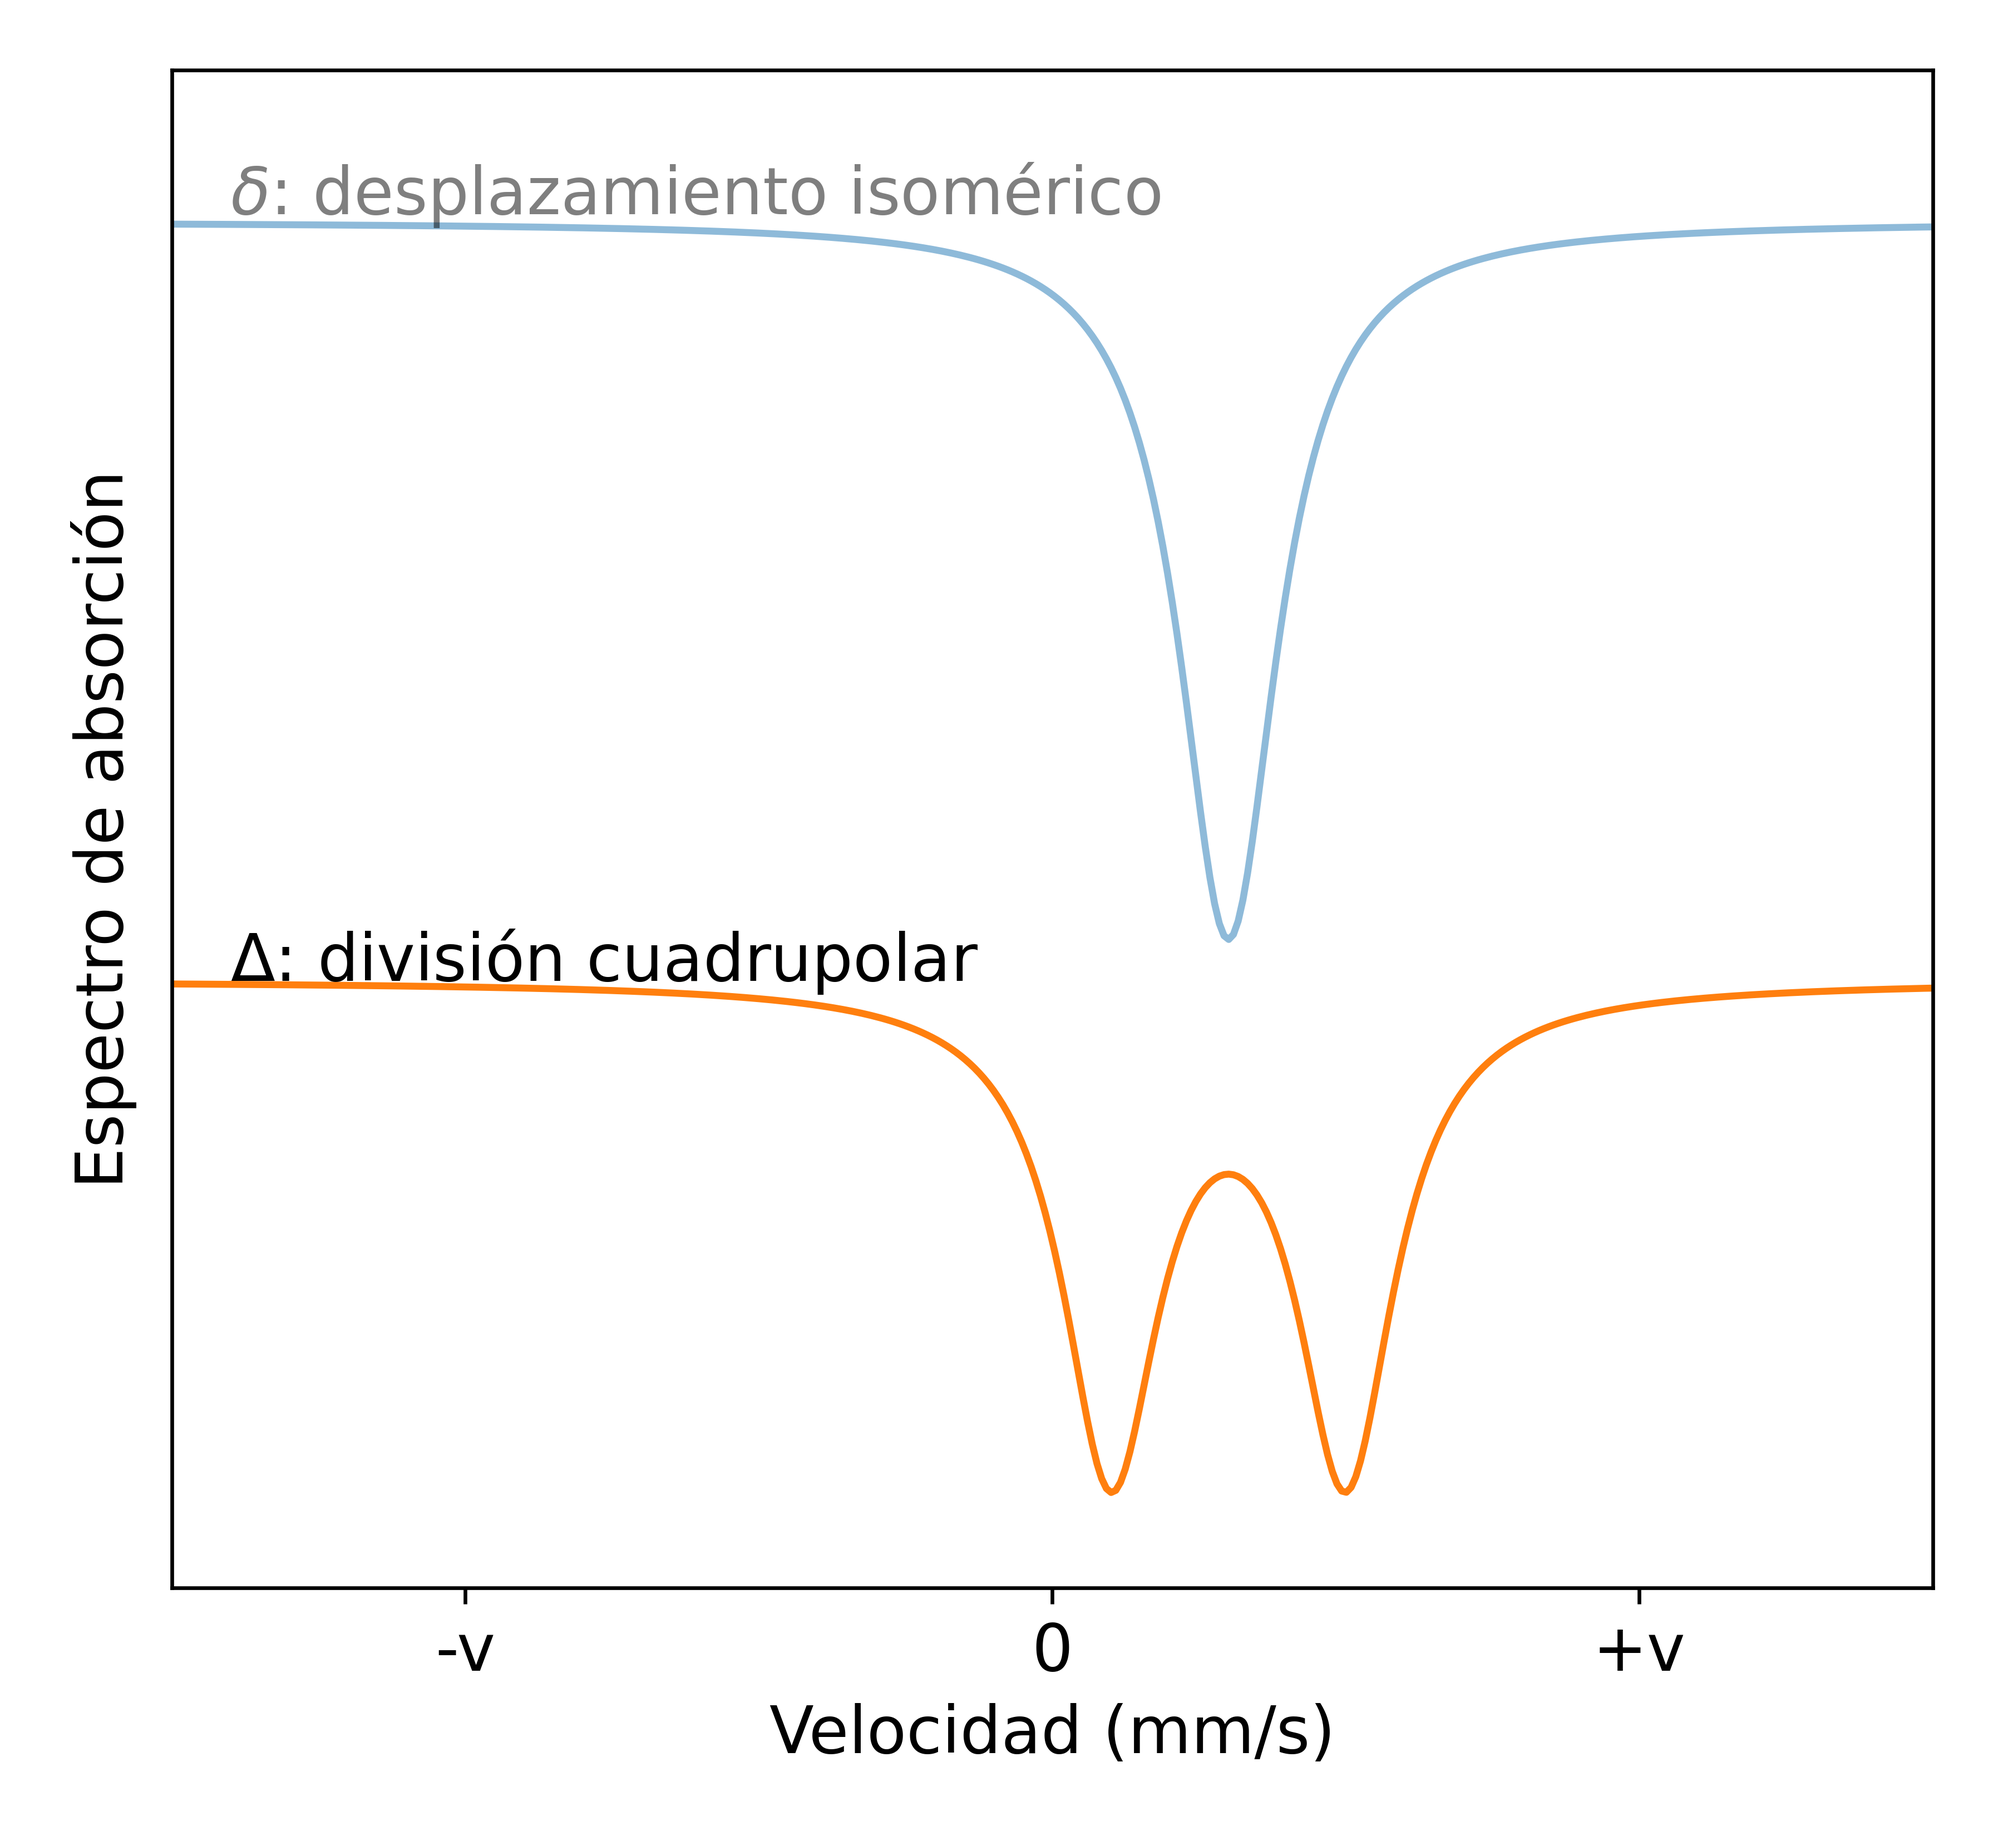
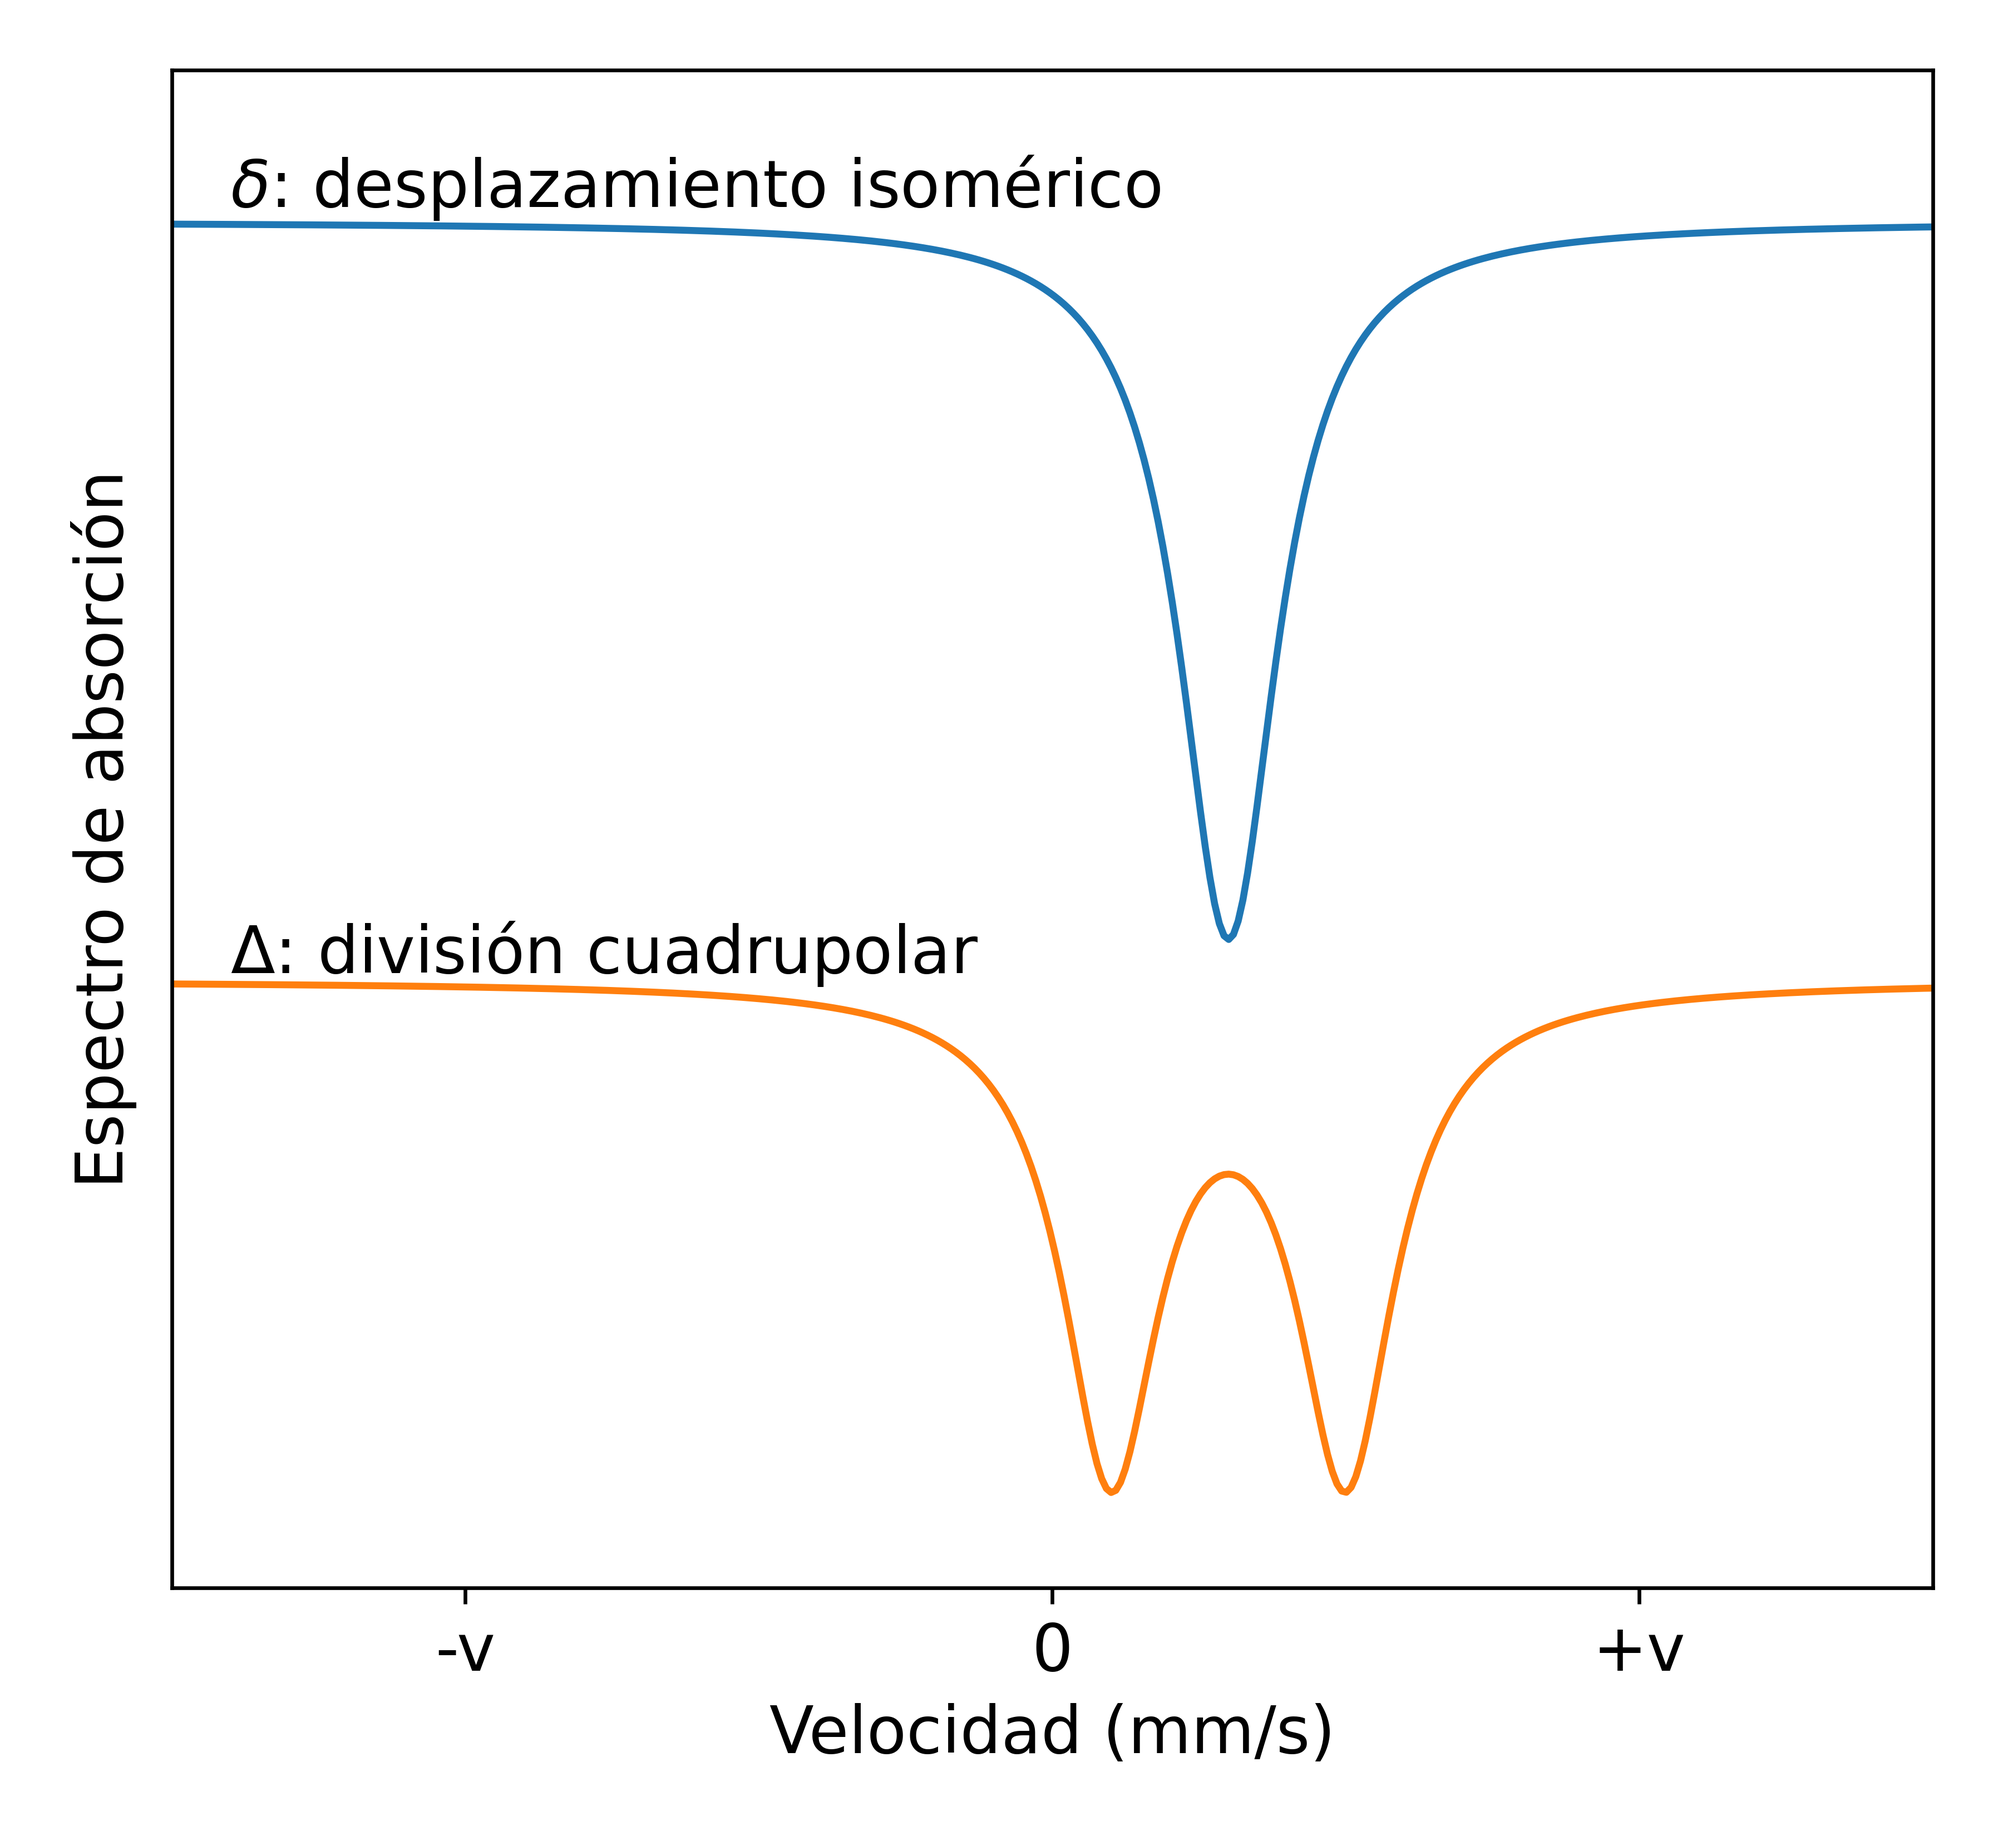
NMR slides

diff --git a/src/Silicio/prediccion/resultados/nmr/viz.py b/src/Silicio/prediccion/resultados/nmr/viz.py
@@ -13,7 +13,7 @@ plt.rcParams.update({"font.size": 12})
 pbc = list(it.product((-10, 0, 10), repeat=2))
 
 rsi = 0.25
-si_centros = [(0, 2.5), (2.7, 2.5), (0, -2), (-4, 4)]
+si_centros = [(0.35, 2.8), (3.05, 2.8), (-0.7, -2), (-3.8, 4.4)]
 
 silicons = (
     [plt.Circle(si_centros[0], rsi, color="tab:blue", label="Si")]
@@ -80,7 +80,7 @@ ax.hlines([-5, 5], [-5, -5], [5, 5], colors="k")
 for circ in silicons + litios + rcuts[:3]:
     ax.add_patch(circ)
 
-ax.plot([0, 2.7], [2.5, 2.5], color="tab:blue")
+ax.plot([0.35, 3.0], [2.8, 2.8], color="tab:blue")
 
 ax.plot([-10 + rsi, -7.3 - rsi], [2.5, 2.5], color="tab:blue", alpha=0.5)
 ax.plot([rsi, 2.7 - rsi], [-7.5, -7.5], color="tab:blue", alpha=0.5)

diff --git a/src/Silicio/prediccion/resultados/mossbauer/_mossbauer_diagram.py b/src/Silicio/prediccion/resultados/mossbauer/_mossbauer_diagram.py
@@ -22,12 +22,11 @@ xvals = np.linspace(-2, 2, num=500)
 ax.plot(
     xvals,
     0.75 * (absorption_peak(xvals, 0.3 - 0.01, 0.1) + absorption_peak(xvals, 0.3 + 0.01, 0.1)),
-    alpha=0.5,
 )
-ax.text(-1.4, 0.05, r"$\delta$: desplazamiento isomérico", alpha=0.5)
+ax.text(-1.4, 0.1, r"$\delta$: desplazamiento isomérico")
 
 ax.plot(xvals, absorption_peak(xvals, 0.3 - 0.2, 0.1) + absorption_peak(xvals, 0.3 + 0.2, 0.1) - 5)
-ax.text(-1.4, -5, r"$\Delta$: división cuadrupolar")
+ax.text(-1.4, -4.95, r"$\Delta$: división cuadrupolar")
 
 ax.set_xlim((-1.5, 1.5))
 ax.set_xticks([-1, 0, 1], ["-v", 0, "+v"])
